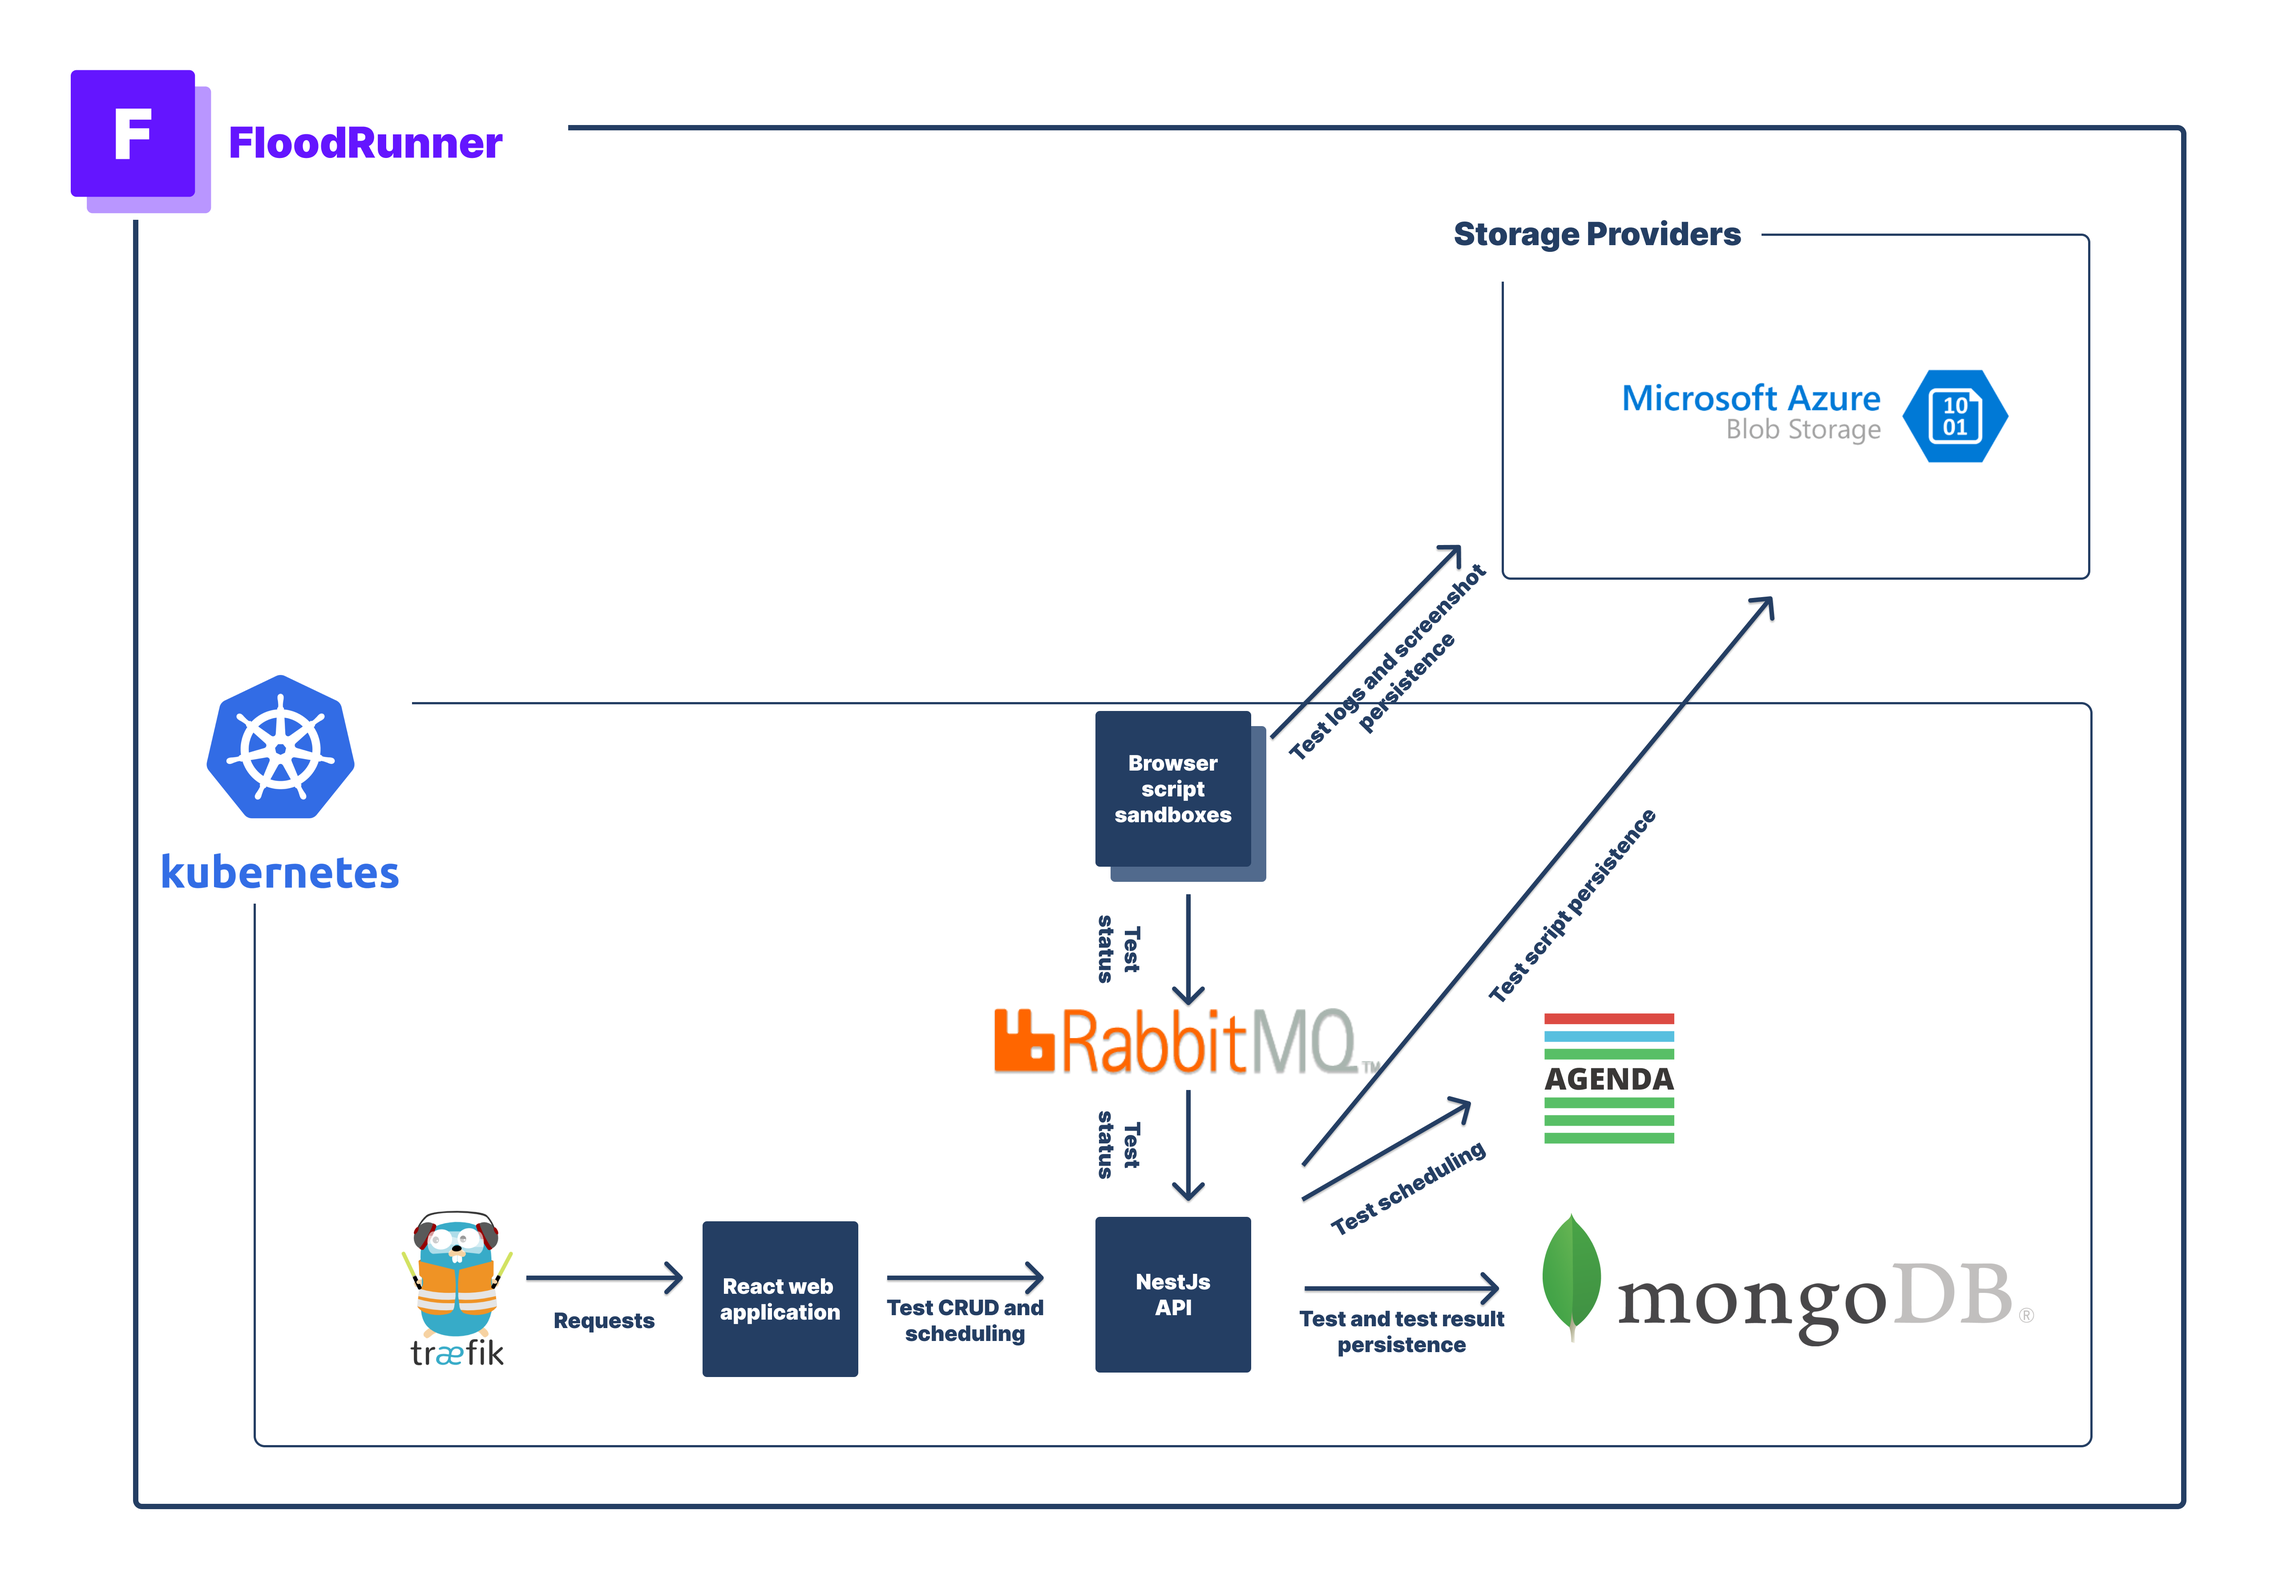
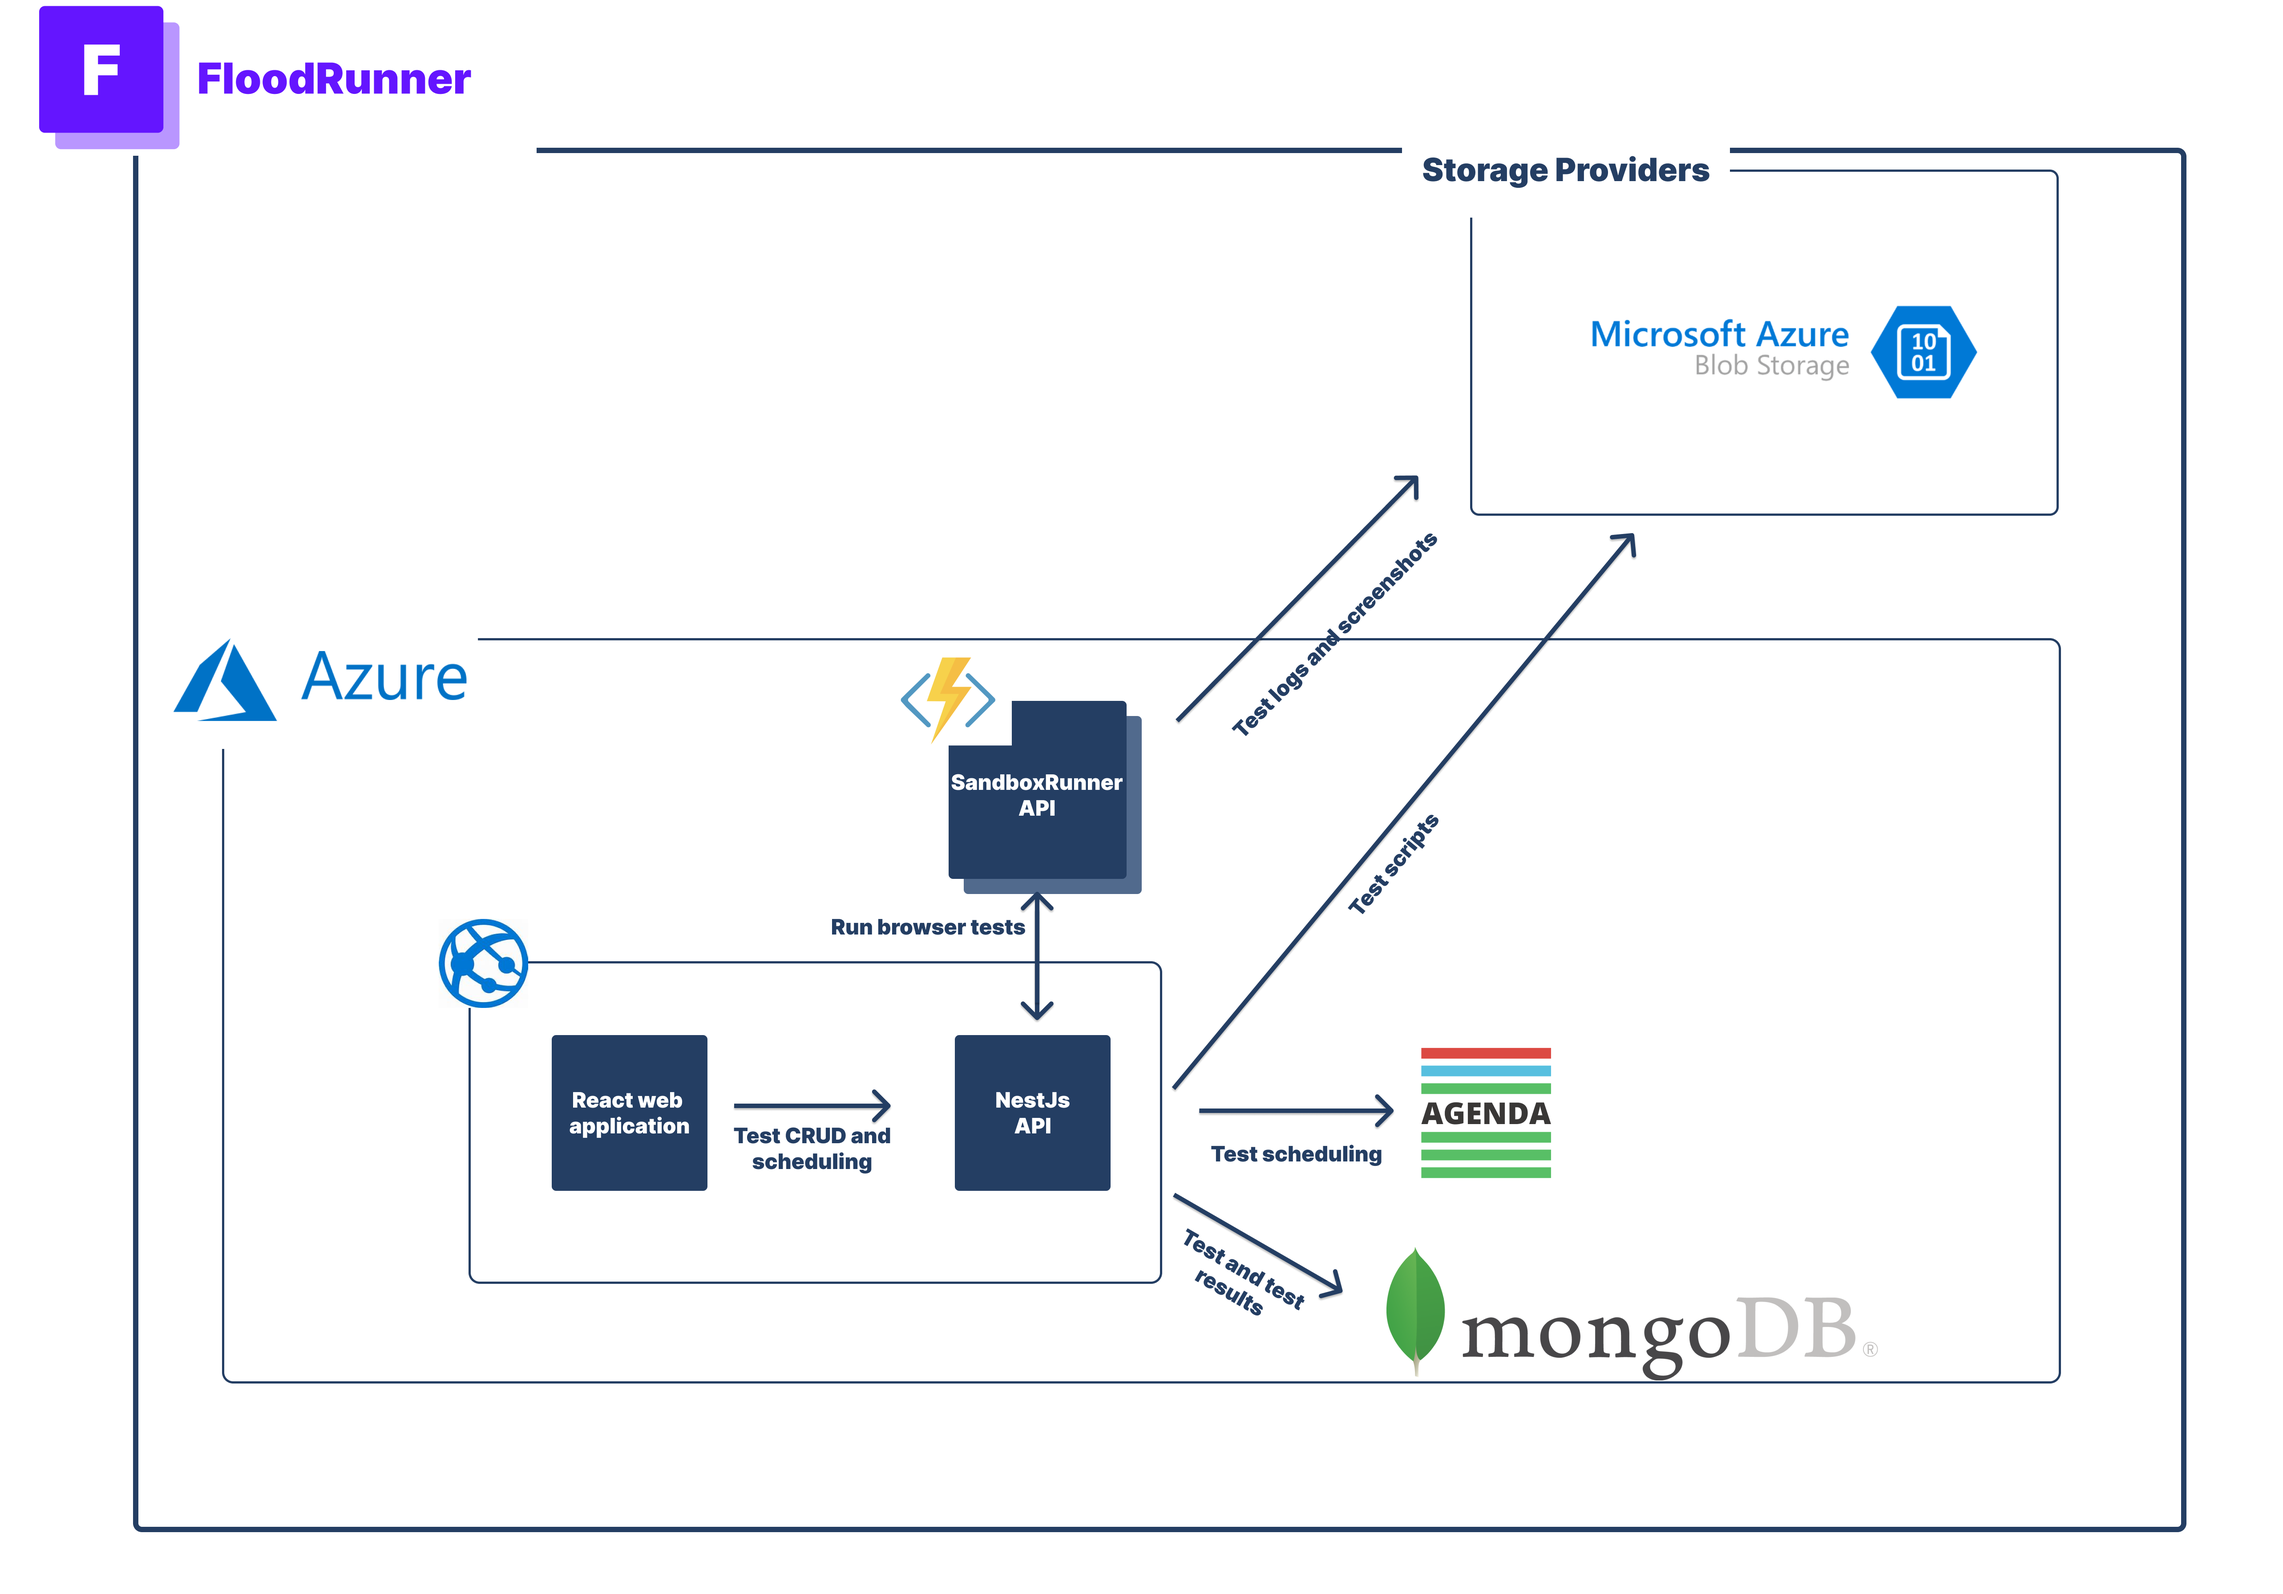
Added server.js file to sandboxrunner to activate SCM build Updated Readme

diff --git a/SandboxRunner/server.js b/SandboxRunner/server.js
@@ -1,0 +1,2 @@
+//empty server.js file used to activate build on web application SCM_BUILD_DURING_DEPLOYMENT
+//according to this: https://github.com/Microsoft/Oryx/blob/master/doc/runtimes/nodejs.md

diff --git a/README.md b/README.md
@@ -26,16 +26,22 @@ The process of using FloodRunner is simple and easy:
 #### Features:
 
 - <strong>Schedule browser tests</strong>: Easily schedule your browser tests to ensure your application is being continously tested.
-- <strong>Multiple scripting frameworks</strong>: Supports both [Puppeteer](https://pptr.dev/) and [Element](https://element.flood.io/) scripts.
+- <strong>On-demand browser tests</strong>: Create a Personal Access Token and run your browser test via an API call.
+- <strong>Multiple browser test types</strong>: Supports both [Puppeteer](https://pptr.dev/) and [Element](https://element.flood.io/) scripts.
 - <strong>Detailed Results</strong>: View detailed results of your test executions including all log output, screenshots and execution time.
 - <strong>Integrate with Flood.io (coming soon)</strong>: Leverage Flood.io to run your scripts as load tests (applies to Element scripts only)
 - <strong>Secure login and API authorization</strong>: Secured using Auth0.com ensuring that login is secure and that data is completely isolated between users.
-- <strong>Cloud native</strong>: Components are dockerized and designed to run in Kubernetes, including all relevant configuration scripts needed for deployment and configuration.
+- <strong>Cloud native</strong>: Cloud-architecture enabled allowing you to easily deploy the components to a cloud provider like Azure
+
+#### Who is this for?
+
+This is for anyone who wants to run browser tests on either a fixed schedule or on demand via a powerful API. No complex setup required, just paste in your script and see the results.
 
 ## Index
 
 - [Quickstart](#quickstart)
 - [Browser Tests](#browser-tests)
+- [REST API](#rest-api)
 - [Deploying FloodRunner](#deploying-floodrunner)
   - [1. Deploying Traefik](#1-deploying-traefik)
   - [2. Deploying RabbitMq](#2-deploying-rabbitMq)
@@ -104,9 +110,23 @@ await page.goto("https://example.com");
 await page.screenshot({ path: path.join(screenshotPath, "screenshot.png") });
 ```
 
+## Rest API
+
+The NestJS backend API is fully Swagger compatible and can be accessed by creating an access token and providing it in the `x-api-key` request header when sending a request.
+
+### Creating an Access Token
+
+Open to the settings menu and select `Personal access token`
+![Settings Pane](/resources/images/usage/settings_pane.png)
+
+Then create a token by clicking the `Create Token` button
+![Personal Access Token Screen](/resources/images/usage/personal_access_token.png)
+
+You can then include this token in any request made to the backend API.
+
 ## Deploying FloodRunner
 
-FloodRunner is fully cloud native and can be deployed into any Kubernetes environment. The architecture is shown below
+FloodRunner is fully cloud native and can be deployed into any cloud environment. The architecture shown below is when deployed to Azure
 
 ![FloodRunner Architecture](/resources/images/architecture.png)
 
@@ -114,64 +134,21 @@ FloodRunner is fully cloud native and can be deployed into any Kubernetes enviro
 
 Prerequisites:
 
-- A Kubernetes cluster in order to setup FloodRunner.
-- [Skaffold](https://skaffold.dev/) installed (alternatively you can deploy the k8s yml files individually)
+- An Azure subscription to host FloodRunner.
 
-The deployments are fully managed by a [Skaffold](https://skaffold.dev/) script which can be found in the `skaffold.yml` file. This file will deploy the underlying kubernetes yml files located in the `k8s` directory.
+### 1. Provision infrastructure
 
-### 1. Deploying Traefik
+You will need to provision the following components in Azure:
 
-Traefik is used as the ingress controller for the K8s cluster and handles all the routing. The Traefik yml scripts can be found in the `k8s/traefik` folder.
+- A Linux-Based App Service Plan (for the API and frontend) <strong>NB. If you use a Windows app service plan, ensure that you change the startup command for the React frontend in the yml pipeline</strong>
+- An Azure Web app for the React front-end
+- An Azure Web app for the NestJS backend
+- An Azure Functions app for the SandboxRunner API
+- An Azure storage account for storing tests and test results
 
-Traefik integrates with [Let's Encrypt](https://letsencrypt.org/) to automatically retreive SSL certificates. FloodRunner uses CloudFlare as its DNS provider and Traefik makes use of your CloudFlare details in order to validate the challenge issued by Let's Encrypt to prove domain ownership. If you would like to change the DNS provider refer to the [Traefik documentation](https://docs.traefik.io/https/acme/) for instructions.
+Additionally, you will need a MongoDB database, you can either use one Azure or use a free one through [MongoDB Atlas](https://www.mongodb.com/cloud/atlas).
 
-You will need to configure the `traefik.yml` file according to your settings. The follow lines need to changed to your CloudFlare email address:
-
-> --certificatesresolvers.le.acme.email=javaadpatel@gmail.com
-
-> name: CF_API_EMAIL value: javaadpatel@gmail.com
-
-Then you need to rename the file `traefik-secrets.yml.bak` to `traefik-secrets.yml` and insert your CloudFlare global API key.
-
-Once configured, run `skaffold run -p traefik` this will setup Traefik and a default `WhoAmI` pod which can be used to check that the Traefik integration with Let's Encrypt and routing is working correctly. The `WhoAmI` pod will be accessible on `https://<YOUR DOMAIN>/healthcheck`.
-
-Then get the Traefik external IP using `kubectl get services` to retrieve the Traefik service. This IP address can then be put into CloudFlare (Or other DNS Provider) to get traffic into the cluster using an A record set to the Traefik External IP Address.
-
-NB. For CloudFlare ensure A record is proxied and SSL Setting is set to `Full`
-
-### 2. Deploying RabbitMq
-
-RabbitMq is used as the messaging service for scheduling test executions and also for communicating from the Sandboxed Kubernetes Browser jobs and the FloodRunner NestJs API.
-
-Ensure Helm is installed on your machine, [install instructions](https://helm.sh/docs/intro/install/). Then complete the following steps:
-
-- Create a namespace for RabbitMq to be deployed into using `kubectl create namespace rabbit`
-- Add the helm repo using `helm repo add bitnami https://charts.bitnami.com/bitnami`
-- Install RabbitMq using `helm install rabbit bitnami/rabbitmq --namespace rabbit`
-- Once installed, username will be `user` and password can be obtained using `(kubectl get secret --namespace rabbit rabbit-rabbitmq -o jsonpath="{.data.rabbitmq-password}" | base64 --decode)`. These credentials can then be used in the `api-secrets.yml` file to specify secrets for the API deployment.
-- Run `skaffold run -p rabbitmq` to create the Traefik routes for RabbitMq. This will create a Traefik rule to allow you to access the RabbitMQ management interface on `http://<traefikExternalIp>:15672/rabbitmq/management/#/`. It will also also expose the RabbitMq instance and then the amqp connection string will be `amqp://<rabbitmq-user-name>:<rabbitmq-password>@<traefikExternalIp>` allowing you to access it from outside the cluster if desired.
-
-### 3. Deploying MongoDB
-
-MongoDB is used for the storing the tests and test results as well as by [Agenda](https://github.com/agenda/agenda) for scheduling the test runs.
-
-You will need to configure the `mongodb-configmap.yml` file and change the value of `MONGO_INITDB_ROOT_USERNAME` to be the username you want and then also change the value of `MONGO_INITDB_ROOT_PASSWORD` in the `mongodb-deployment.yml` file to the password you want.
-
-Once configured, run `skaffold run -p mongodb` this will setup a MongoDb database that uses a persistent volume to store data in the Kuberenetes cluster.
-
-### 4. Deploying FloodRunner NestJs API
-
-The API controls all the operations relating to test creation, modification, deletion and kicking off the kubernetes job to execute the browser tests.
-
-You will need to configure the `api-configmap.yml` file ensuring that you input the correct Auth0 settings for secure login, and azure storage account name.
-
-Then you need to rename the `api.secrets.yml.bak` file to `api.secrets.yml` and input the required secrets such as the MongoDB database username/password, the RabbitMQ username/password and the Azure storage access key.
-
-Once configured, run `skaffold run -p api` this will setup the FloodRunner NestJS API. Ensure that you are pulling the correct (and latest) docker image from whichever registry you choose.
-
-You will then need to login to your DNS provider (eg. CloudFlare) and create a CNAME record for `app` with a value of `<YOUR DOMAIN>`. This will ensure that Traefik is able to route to your API.
-
-#### 4.1 Setting up Azure Blob Storage
+#### 1.1 Setting up Azure Blob Storage
 
 If you choose to use Azure blob storage for storing the browser test logs and screenshots, it is important to configure the CORS origins in the portal to include to allow the frontend web portal to fetch the resources. For a broad configuration use:
 
@@ -183,17 +160,17 @@ If you choose to use Azure blob storage for storing the browser test logs and sc
 
 If this is not configured you will receive CORS errors when fetching the resources.
 
-### 5. Deploying FloodRunner React Web App
+### 2. Deploy React frontend, NestJS API and SandboxRunner API
 
-The front end allows users to create/manage browser tests and view the results of those tests.
+You can either manually deploy each of the components to Azure, or use the `floodrunner-pipeline.yml`, in the `.azuredevops` folder, as a template pipeline for an Azure DevOps pipeline.
 
-You will need to configure the `web-configmap.yml` file and ensure you put in the correct settings for your Auth0 instance and also the correct url for your floodrunner api, which should be at `https://app.<YOUR DOMAIN>/api`.
+The yml file includes all the required steps to deploy each of the components.
 
-Once configured, run `skaffold run -p web` this will setup the FloodRunner ReactJS Frontend. Ensure that you are pulling the correct (and latest) docker image from whichever registry you choose.
+> NB. For deploying the NestJS Backend API there are a number of secrets that need to be configured as pipeline variables. These get inserted into the `production.yml` config file and used when the application runs.
 
 ## Contributing
 
-Pull requests and feedback are welcomed.
+If you've enjoyed or even hated using this project please let me know throught a pull requests or just open an issue.
 
 ## Reporting Issues
 
